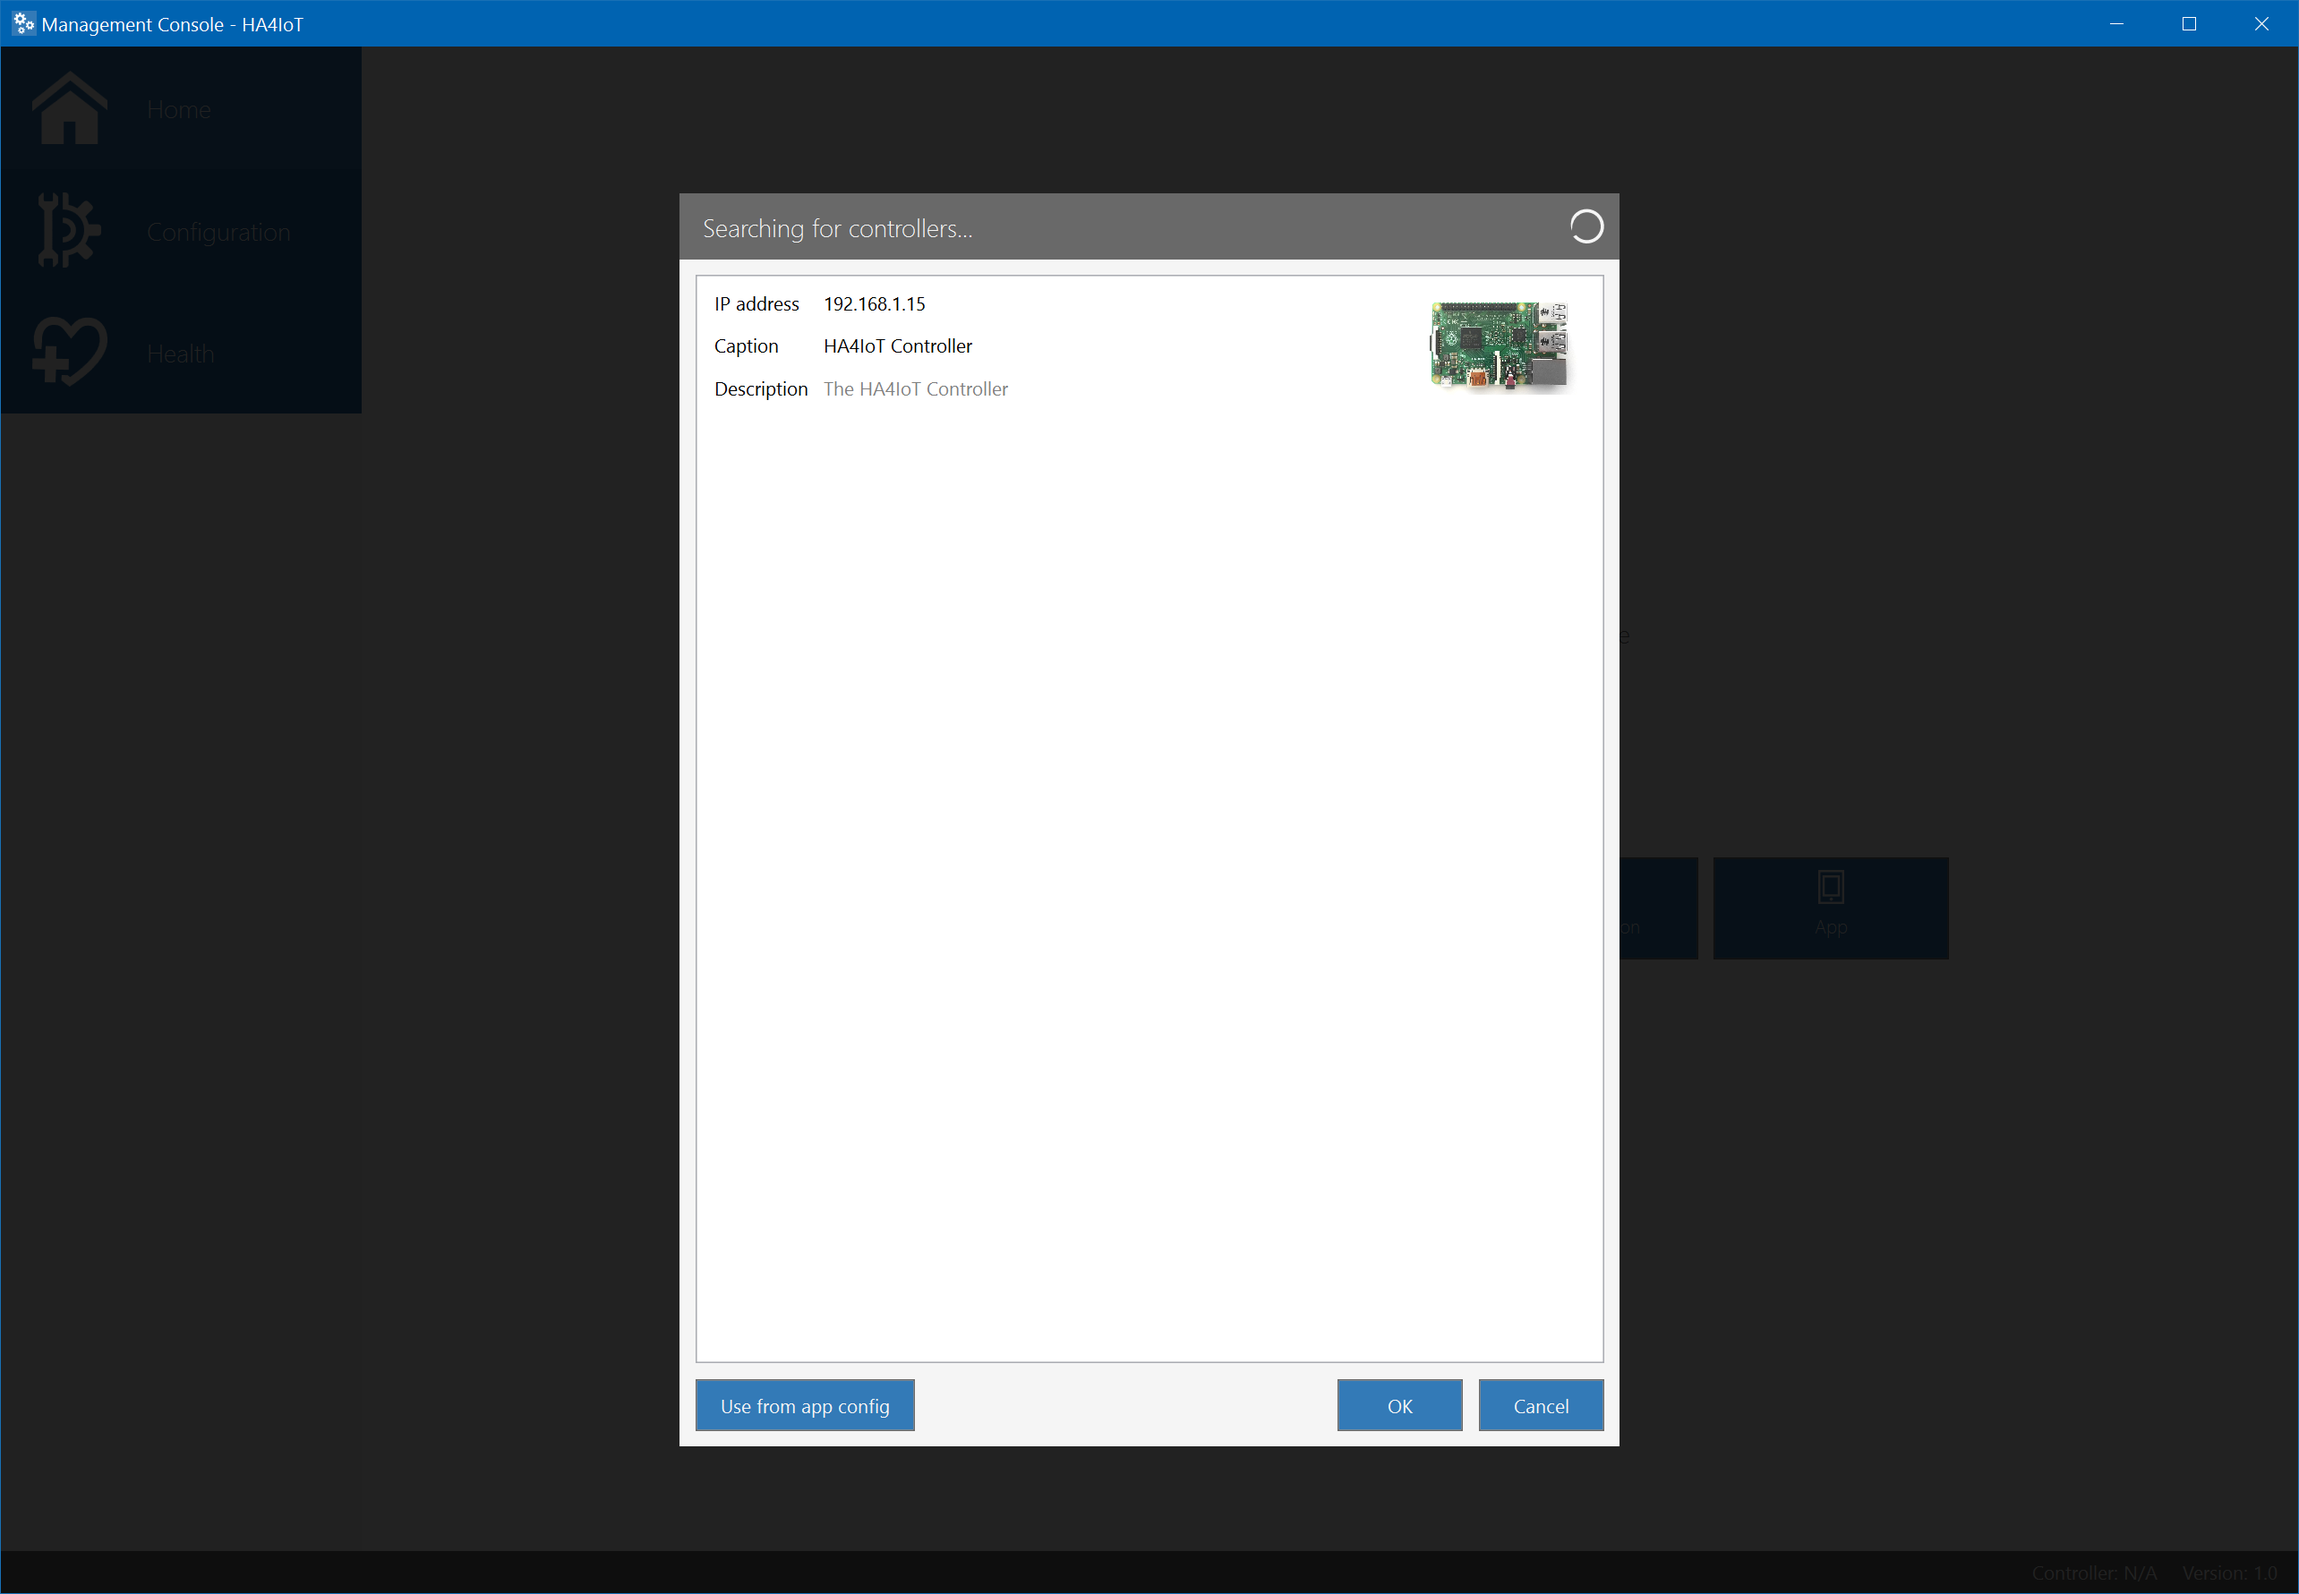
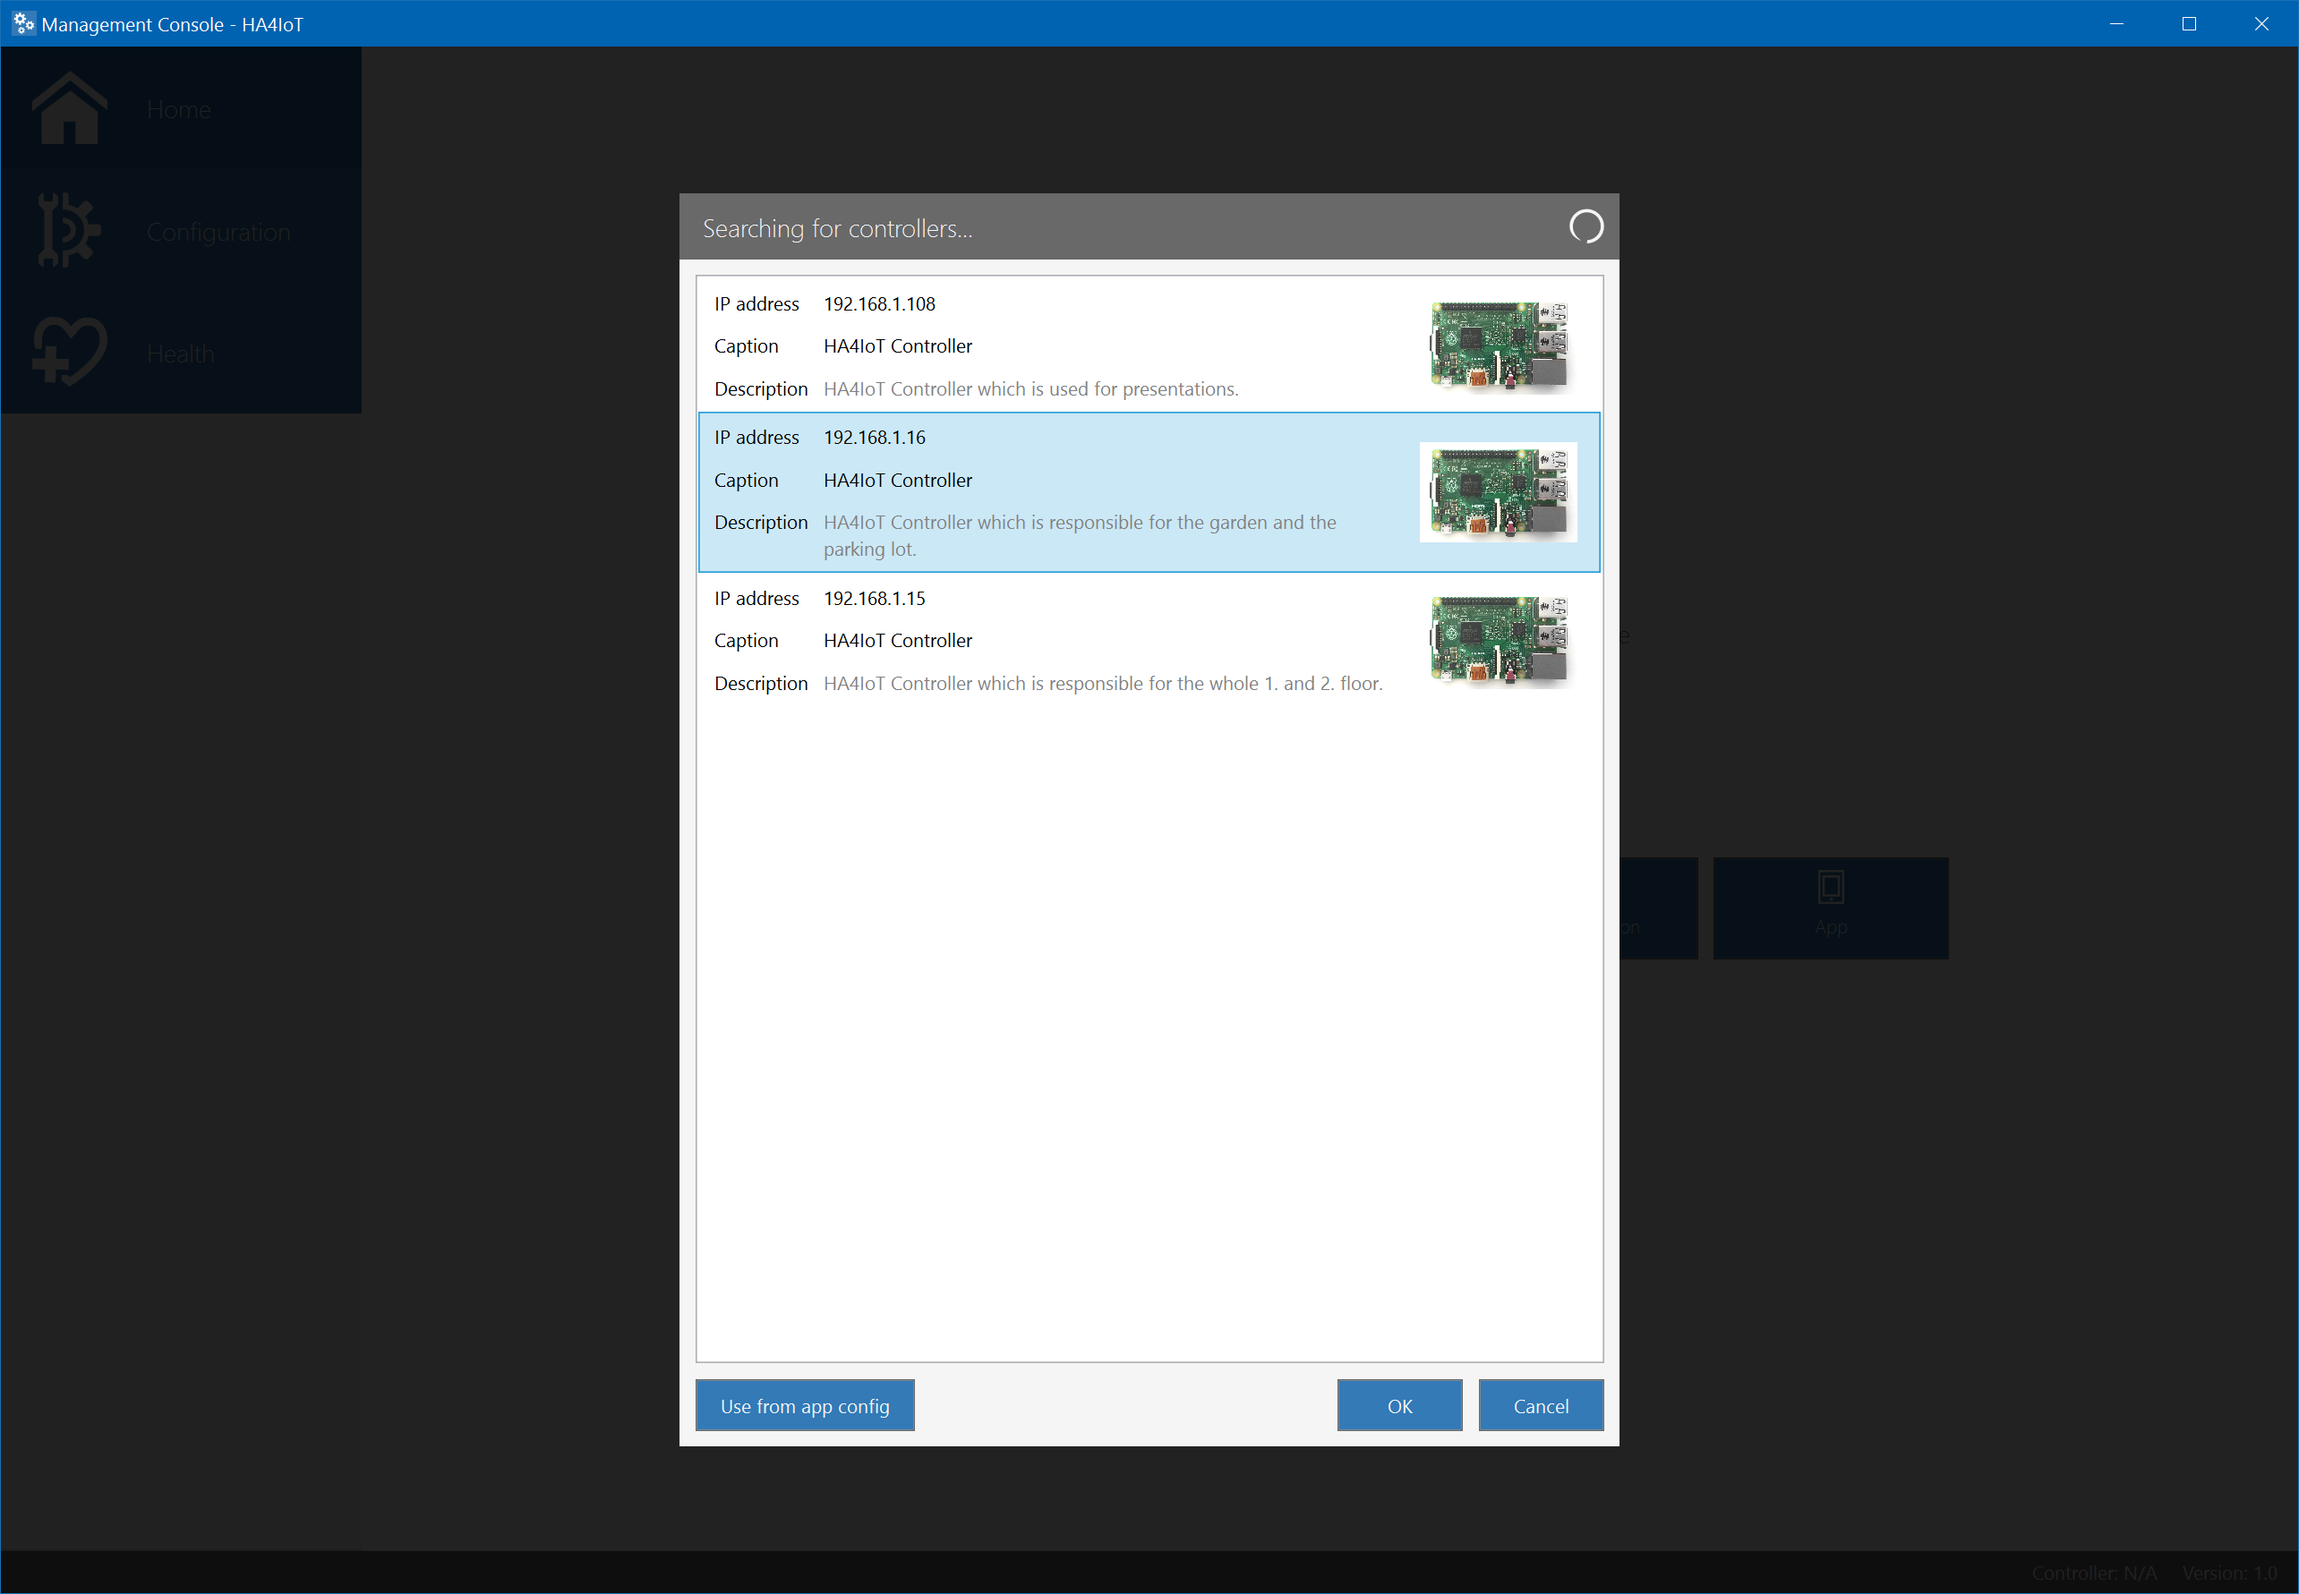
Fix styles

Changed region(s): [[0.2804, 0.2162, 0.7165, 0.4323], [0.4673, 0.4015, 0.4984, 0.4323]]

diff --git a/Tools/HA4IoT.ManagementConsole/Discovery/Views/ControllerSelectorView.xaml b/Tools/HA4IoT.ManagementConsole/Discovery/Views/ControllerSelectorView.xaml
@@ -78,6 +78,7 @@
                  HorizontalContentAlignment="Stretch"
                  AlternationCount="2"
                  ItemsSource="{Binding Controllers}"
+                 ScrollViewer.HorizontalScrollBarVisibility="Disabled"
                  SelectedItem="{Binding Controllers.SelectedItem}">
             <ListBox.ItemTemplate>
                 <DataTemplate DataType="{x:Type viewModels:ControllerItemVM}">
@@ -109,9 +110,9 @@
                                    Grid.Column="0"
                                    Content="Caption" />
 
-                            <Label Grid.Row="1"
-                                   Grid.Column="1"
-                                   Content="{Binding Caption}" />
+                            <Label Grid.Row="1" Grid.Column="1">
+                                <TextBlock Text="{Binding Caption}" TextWrapping="Wrap" />
+                            </Label>
 
                             <Label Grid.Row="2"
                                    Grid.Column="0"
@@ -119,8 +120,9 @@
 
                             <Label Grid.Row="2"
                                    Grid.Column="1"
-                                   Content="{Binding Description}"
-                                   Foreground="Gray" />
+                                   Foreground="Gray">
+                                <TextBlock Text="{Binding Description}" TextWrapping="Wrap" />
+                            </Label>
                         </Grid>
                     </DockPanel>
                 </DataTemplate>

diff --git a/Tools/HA4IoT.ManagementConsole/Style.xaml b/Tools/HA4IoT.ManagementConsole/Style.xaml
@@ -29,6 +29,9 @@
                         <Trigger Property="IsMouseOver" Value="True">
                             <Setter TargetName="Border" Property="Background" Value="#FF226AA6" />
                         </Trigger>
+                        <Trigger Property="IsEnabled" Value="False">
+                            <Setter TargetName="Border" Property="Background" Value="DimGray" />
+                        </Trigger>
                     </ControlTemplate.Triggers>
                 </ControlTemplate>
             </Setter.Value>
